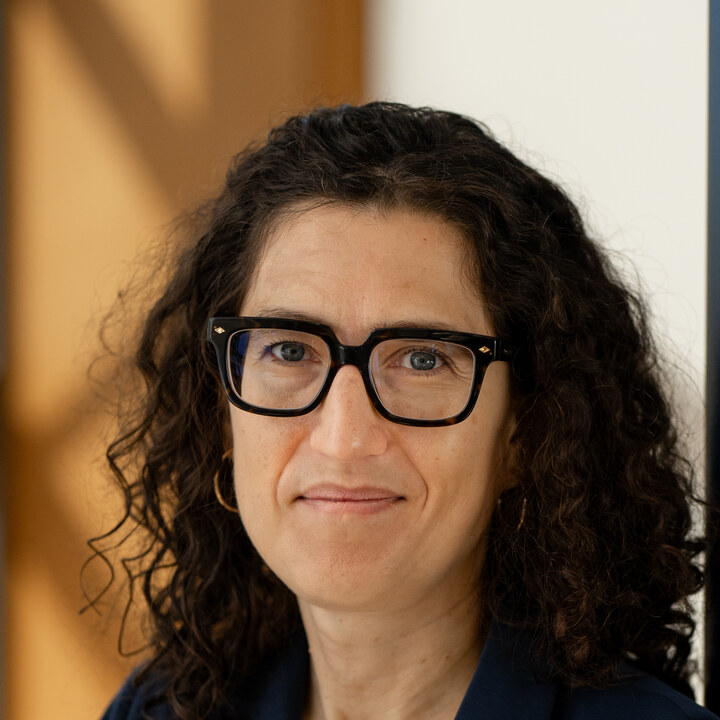
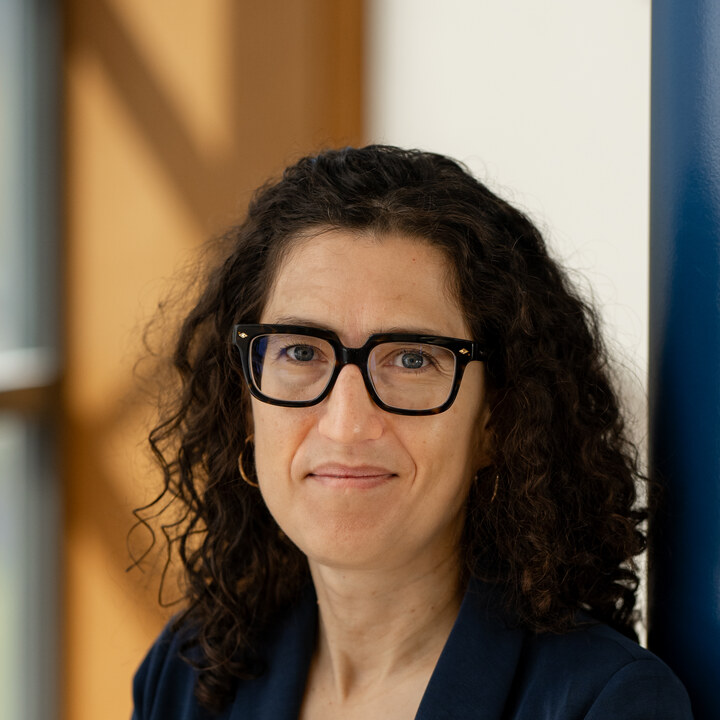
Profile picture: crop 20 percent wider

diff --git a/_includes/author-profile.html b/_includes/author-profile.html
@@ -10,7 +10,7 @@
     {% if author.avatar contains "://" %}
     	<img src="{{ author.avatar }}" alt="{{ author.name }}"  fetchpriority="high" />
     {% else %}
-    	<img src="{{ author.avatar | prepend: "/images/" | prepend: base_path }}" class="author__avatar" alt="{{ author.name }}"  fetchpriority="high" />
+    	<img src="{{ author.avatar | prepend: "/images/" | prepend: base_path }}?v={{ site.time | date: '%Y%m%d%H%M%S' }}" class="author__avatar" alt="{{ author.name }}"  fetchpriority="high" />
     {% endif %}
   </div>
 
